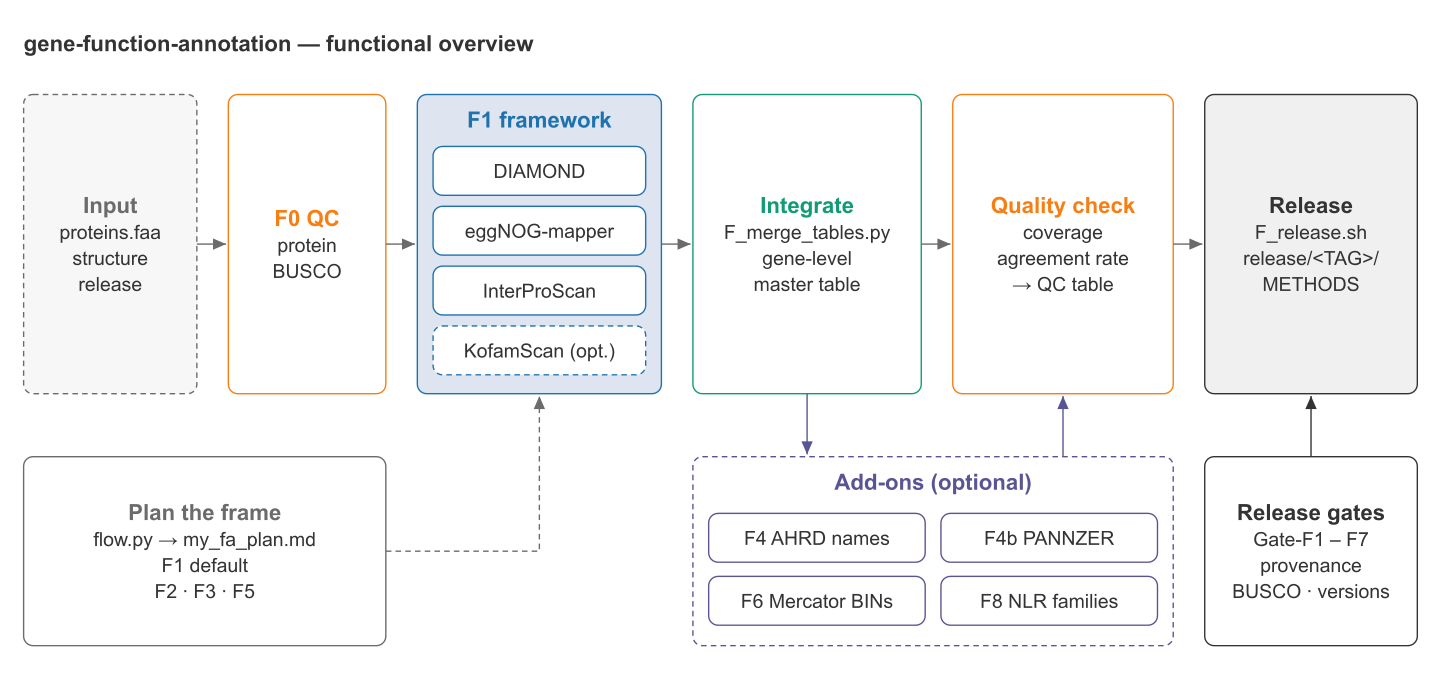
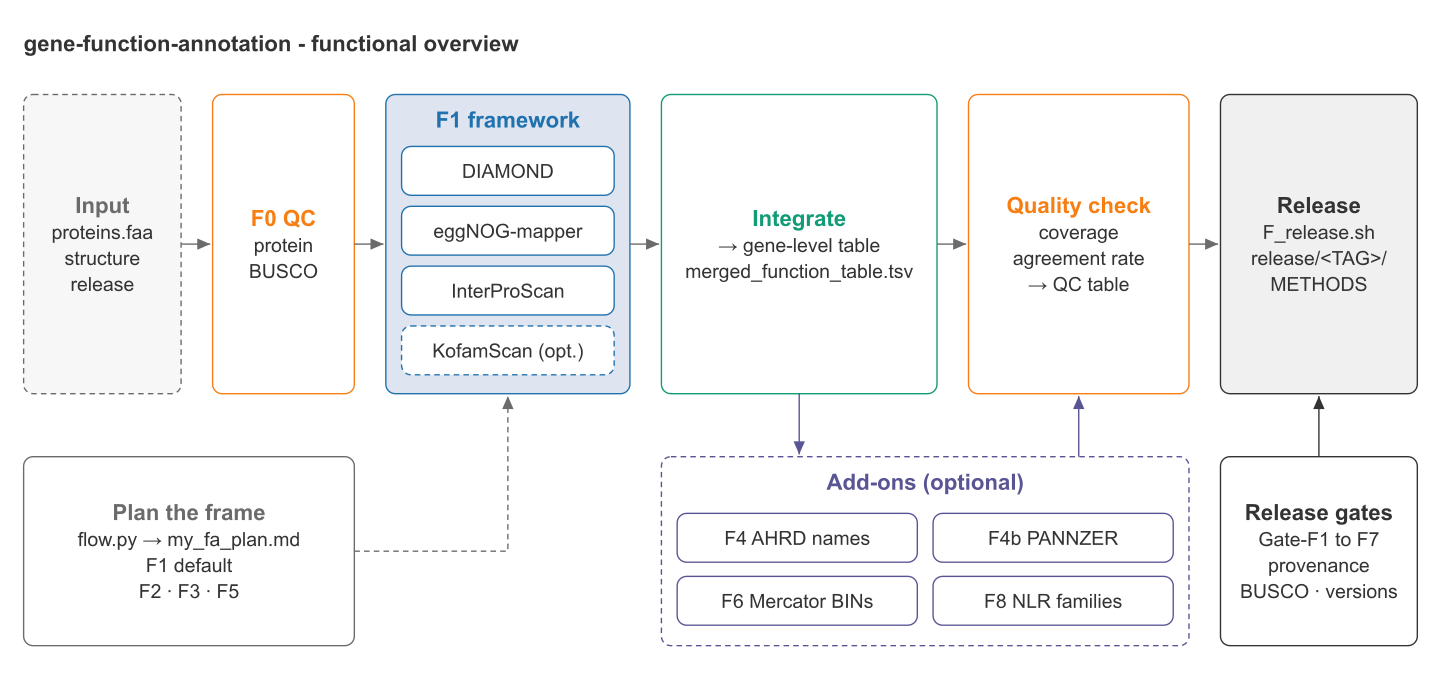
docs(figures): name integrate output merged_function_table.tsv; plain hyphens in figure text

diff --git a/docs/figures/src/functional_spine.py b/docs/figures/src/functional_spine.py
@@ -52,19 +52,19 @@ def box(x, y, w, h, title, lines, stroke, fill='#FFFFFF', dash=False, tcolor=Non
 
 # ---------------------------------------------------------------- layout
 M = 3
-text(M, 6.5, 'gene-function-annotation — beginner spine', 8, True, '#000000', 'start')
+text(M, 6.5, 'gene-function-annotation - beginner spine', 8, True, '#000000', 'start')
 text(M, 10.8, 'Labels on proteins. Not gene finding. Mercator / AHRD / NLR = add-ons after merge.',
      7, False, GREY, 'start')
 
 top, bh = 15, 20
 spec = [  # width, title, lines, stroke, fill, dash, title colour
-    (22, 'proteins.faa', ['structure release'], GREY, PAPER, True, GREY),
-    (19, 'F0 QC', ['protein BUSCO'], ORANGE, '#FFFFFF', False, None),
-    (27, 'Framework F1', ['DIAMOND · eggNOG', 'IPS'], BLUE, BLUE_BG, False, None),
-    (31, 'Integrate', ['IPS · eggNOG', 'DIAMOND · Kofam', '→ gene-level master.tsv'], GREEN, '#FFFFFF', False, None),
-    (21, 'add-ons', ['F4/F6/F8 ingest'], VIOLET, '#FFFFFF', True, None),
-    (24, 'Quality check', ['coverage', 'agreement', '→ QC table'], ORANGE, '#FFFFFF', False, None),
-    (22, 'release', ['+ METHODS', 'F-L1'], INK, LIGHT, False, None),
+    (21.5, 'proteins.faa', ['structure release'], GREY, PAPER, True, GREY),
+    (20, 'F0 QC', ['protein BUSCO'], ORANGE, '#FFFFFF', False, None),
+    (22, 'Framework F1', ['DIAMOND', 'eggNOG · IPS'], BLUE, BLUE_BG, False, None),
+    (35, 'Integrate', ['IPS · eggNOG', 'DIAMOND · Kofam', '→ merged_function_table.tsv'], GREEN, '#FFFFFF', False, None),
+    (20.5, 'add-ons', ['F4/F6/F8 ingest'], VIOLET, '#FFFFFF', True, None),
+    (21.5, 'Quality check', ['coverage', 'agreement', '→ QC table'], ORANGE, '#FFFFFF', False, None),
+    (18, 'release', ['+ METHODS', 'F-L1'], INK, LIGHT, False, None),
 ]
 gap = (W - 2*M - sum(s[0] for s in spec)) / (len(spec) - 1)
 x = M
@@ -79,7 +79,7 @@ for w, t, lines, st, fill, dash, tc in spec:
 cy, ch = top + bh + 5, 18
 card = rect(M, cy, W - 2*M, ch, '#BFBFBF', PAPER)
 text(M + 3, cy + 4.6, 'Remember', 8, True, '#000000', 'start', inside=card)
-text(M + 3, cy + 8.6, '• Mercator (F6) / AHRD (F4) / NLR (F8): add-ons — ingest after merge '
+text(M + 3, cy + 8.6, '• Mercator (F6) / AHRD (F4) / NLR (F8): add-ons - ingest after merge '
      '(web Mercator may submit in parallel with F1).', 7, False, '#000000', 'start', inside=card)
 text(M + 3, cy + 12.0, '• Script F2_eggnog.sh = eggNOG step inside framework F1 (not fast-frame F2). '
      'See README “F numbering”.', 7, False, '#000000', 'start', inside=card)

diff --git a/docs/figures/src/functional_overview.py b/docs/figures/src/functional_overview.py
@@ -58,11 +58,11 @@ def labelled_box(x, y, w, h, title, lines, stroke=INK, fill='#FFFFFF', dash=Fals
 
 # ---------------------------------------------------------------- layout
 M = 3
-text(M, 6.5, 'gene-function-annotation — functional overview', 8, True, INK, 'start')
+text(M, 6.5, 'gene-function-annotation - functional overview', 8, True, INK, 'start')
 
 top, hgt = 12, 38                      # main row
 mid = top + hgt / 2
-cols = [22, 20, 31, 29, 28, 27]        # widths; gaps fill the rest
+cols = [20, 18, 31, 35, 28, 25]        # widths; gaps fill the rest
 gap = (W - 2*M - sum(cols)) / (len(cols) - 1)
 xs = []
 x = M
@@ -85,7 +85,7 @@ for name, dash in tools:
     ty += th + tg
 
 b_int = labelled_box(xs[3], top, cols[3], hgt, 'Integrate',
-                     ['F_merge_tables.py', 'gene-level', 'master table'], GREEN, '#FFFFFF')
+                     ['→ gene-level table', 'merged_function_table.tsv'], GREEN, '#FFFFFF')
 b_qa = labelled_box(xs[4], top, cols[4], hgt, 'Quality check',
                     ['coverage', 'agreement rate', '→ QC table'], ORANGE, '#FFFFFF')
 b_rel = labelled_box(xs[5], top, cols[5], hgt, 'Release',
@@ -121,7 +121,7 @@ arrow([(qcx, bt), (qcx, top + hgt + 0.3)], VIOLET)
 
 # release gates under Release
 b_gate = labelled_box(xs[5], bt, cols[5], bh, 'Release gates',
-                      ['Gate-F1 – F7', 'provenance', 'BUSCO · versions'], INK, '#FFFFFF')
+                      ['Gate-F1 to F7', 'provenance', 'BUSCO · versions'], INK, '#FFFFFF')
 arrow([(xs[5] + cols[5]/2, bt), (xs[5] + cols[5]/2, top + hgt + 0.3)], INK)
 
 # ---------------------------------------------------------------- write
